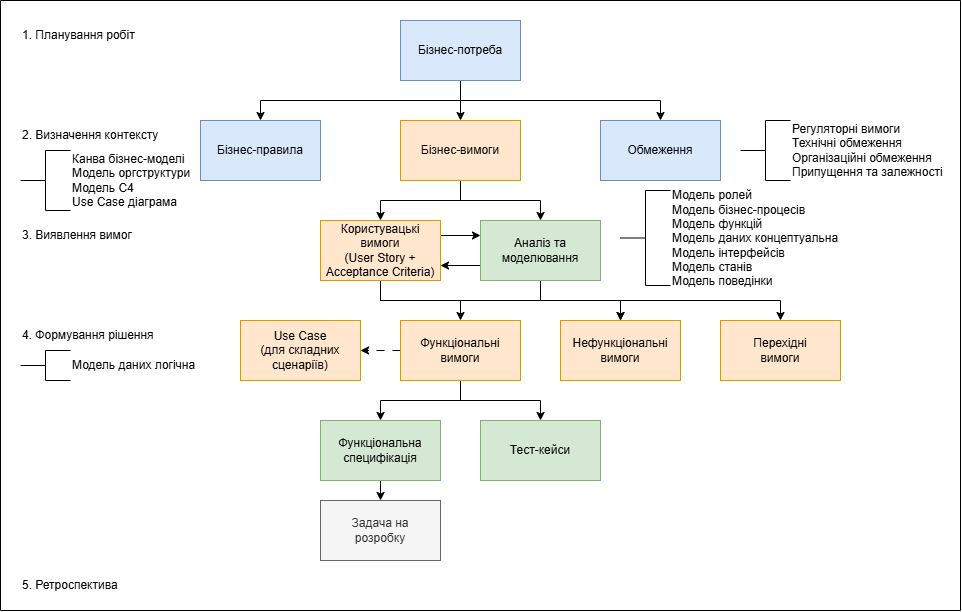
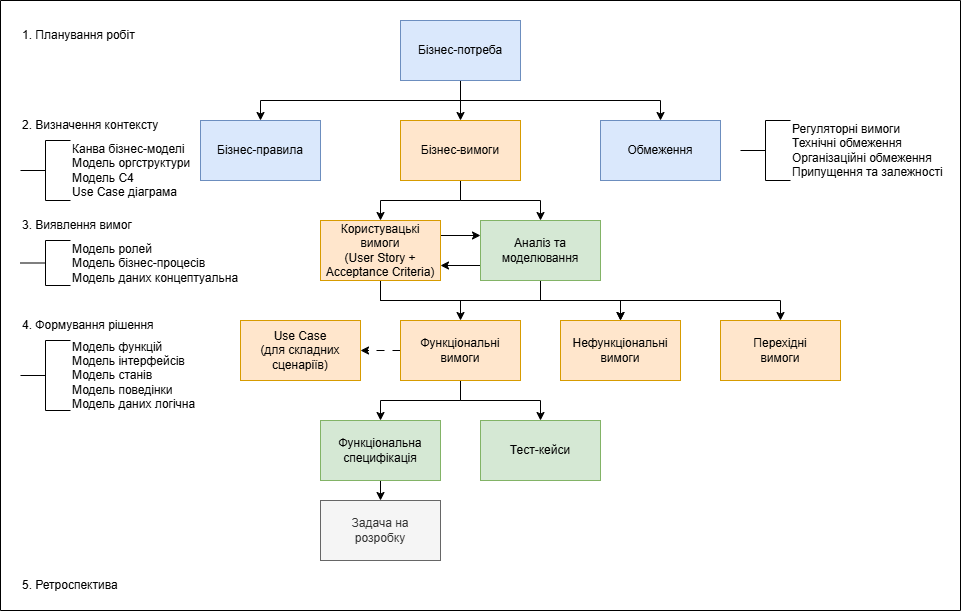
change page concept

Changed region(s): [[0.0312, 0.1863, 0.2495, 0.4657], [0.0, 0.5278, 0.2183, 0.683], [0.6861, 0.3105, 0.8732, 0.4657]]

diff --git a/concept.html b/concept.html
@@ -771,7 +771,10 @@
                         <a href="">шаблон</a>)
                       </li>
                       <li>Канва бізнес-моделі (див. <a href="">приклад</a>)</li>
-                      <li>Модель організаційної структури (див. <a href="">приклад</a>)</li>
+                      <li>
+                        Модель організаційної структури (див.
+                        <a href="">приклад</a>)
+                      </li>
                       <li>Модель С4 (див. <a href="">приклад</a>)</li>
                       <li>Use Case діаграма (див. <a href="">приклад</a>)</li>
                       <li>
@@ -942,32 +945,15 @@
                         <a href="">шаблон</a>)
                       </li>
                       <li>
+                        Модель бізнес-процесів (див.
+                        <a href="">шаблон</a>)
+                      </li>
+                      <li>
                         Модель ролей (див.
                         <a href="">шаблон</a>)
                       </li>
                       <li>
-                        Модель бізнес-процесів (див.
-                        <a href="">шаблон</a>)
-                      </li>
-
-                      <li>
-                        Модель функцій (див.
-                        <a href="">шаблон</a>)
-                      </li>
-                      <li>
                         Модель даних концептуальна (див.
-                        <a href="">шаблон</a>)
-                      </li>
-                      <li>
-                        Модель інтерфейсів (див.
-                        <a href="">шаблон</a>)
-                      </li>
-                      <li>
-                        Модель станів (див.
-                        <a href="">шаблон</a>)
-                      </li>
-                      <li>
-                        Модель поведінки (див.
                         <a href="">шаблон</a>)
                       </li>
                       <li>
@@ -1198,6 +1184,22 @@
                       </li>
                       <li>
                         Перехідні вимоги (див.
+                        <a href="">шаблон</a>)
+                      </li>
+                      <li>
+                        Модель функцій (див.
+                        <a href="">шаблон</a>)
+                      </li>
+                      <li>
+                        Модель інтерфейсів (див.
+                        <a href="">шаблон</a>)
+                      </li>
+                      <li>
+                        Модель станів (див.
+                        <a href="">шаблон</a>)
+                      </li>
+                      <li>
+                        Модель поведінки (див.
                         <a href="">шаблон</a>)
                       </li>
                       <li>
@@ -1596,7 +1598,9 @@
               <td>3. <a href="#i3">Виявлення вимог</a></td>
               <td>
                 <ul>
-                  <li>Користувацькі вимоги (User Story + Acceptance Criteria)</li>
+                  <li>
+                    Користувацькі вимоги (User Story + Acceptance Criteria)
+                  </li>
                   <li>Регуляторні вимоги</li>
                   <li>Бізнес-правила</li>
                   <li>Обмеження</li>
@@ -1606,13 +1610,9 @@
               </td>
               <td>
                 <ul>
-                  <li>Модель ролей</li>
                   <li>Модель бізнес-процесів</li>
-                  <li>Модель функцій</li>
+                  <li>Модель ролей</li>
                   <li>Модель даних концептуальна</li>
-                  <li>Модель інтерфейсів</li>
-                  <li>Модель станів</li>
-                  <li>Модель поведінки</li>
                 </ul>
               </td>
             </tr>
@@ -1621,7 +1621,9 @@
               <td>
                 <ul>
                   <li>Концепція рішення</li>
-                  <li>Функціональні вимоги + Use Case (для складних сценаріїв)</li>
+                  <li>
+                    Функціональні вимоги + Use Case (для складних сценаріїв)
+                  </li>
                   <li>Нефункціональні вимоги</li>
                   <li>Функціональні специфікації</li>
                   <li>Перехідні вимоги</li>
@@ -1631,6 +1633,10 @@
               </td>
               <td>
                 <ul>
+                  <li>Модель функцій</li>
+                  <li>Модель інтерфейсів</li>
+                  <li>Модель станів</li>
+                  <li>Модель поведінки</li>
                   <li>Модель даних логічна</li>
                 </ul>
               </td>
@@ -1640,7 +1646,7 @@
               <td>
                 <ul>
                   <li>Звіт про ретроспективу</li>
-                   <li>План удосконалення процесу бізнес-аналізу</li>
+                  <li>План удосконалення процесу бізнес-аналізу</li>
                 </ul>
               </td>
               <td class="ps-4">-</td>
